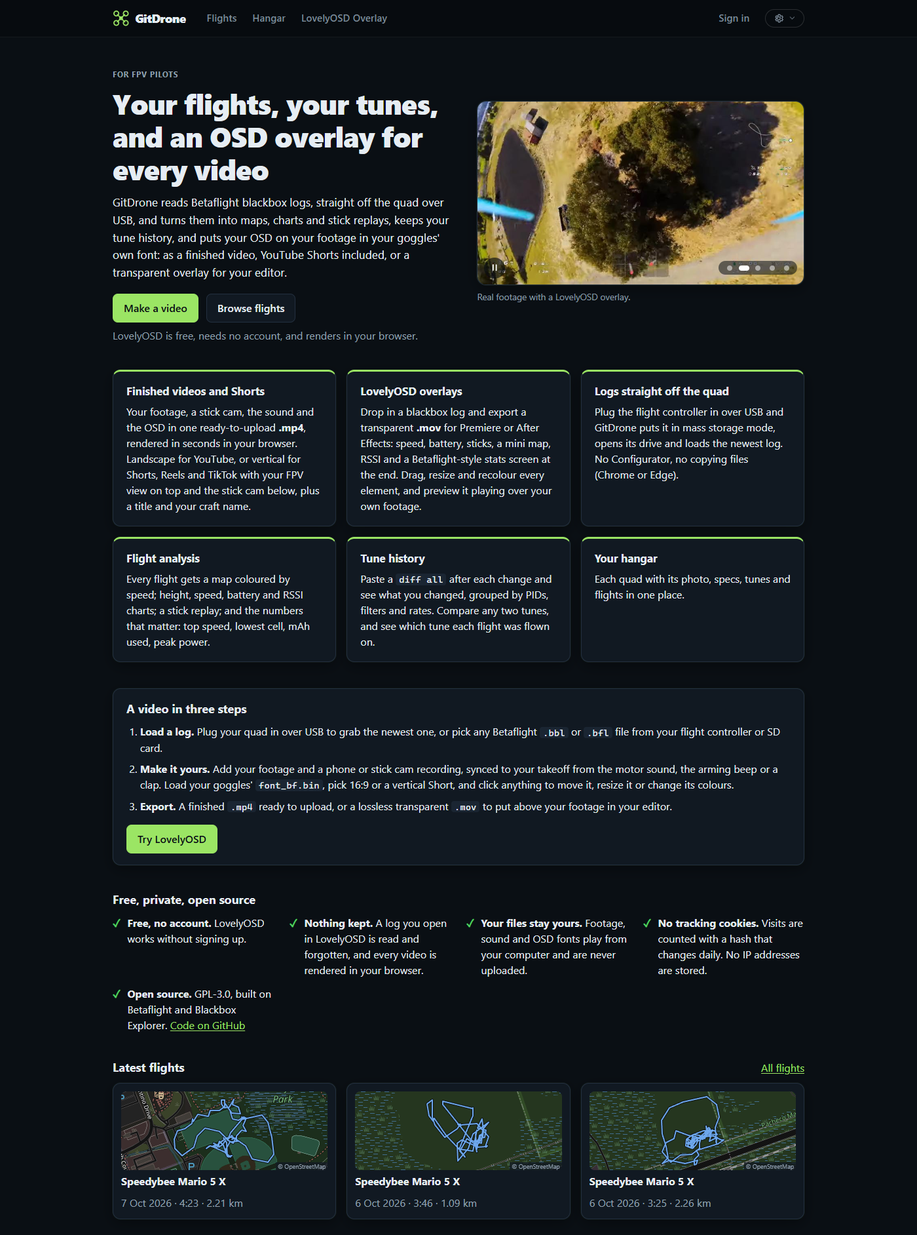
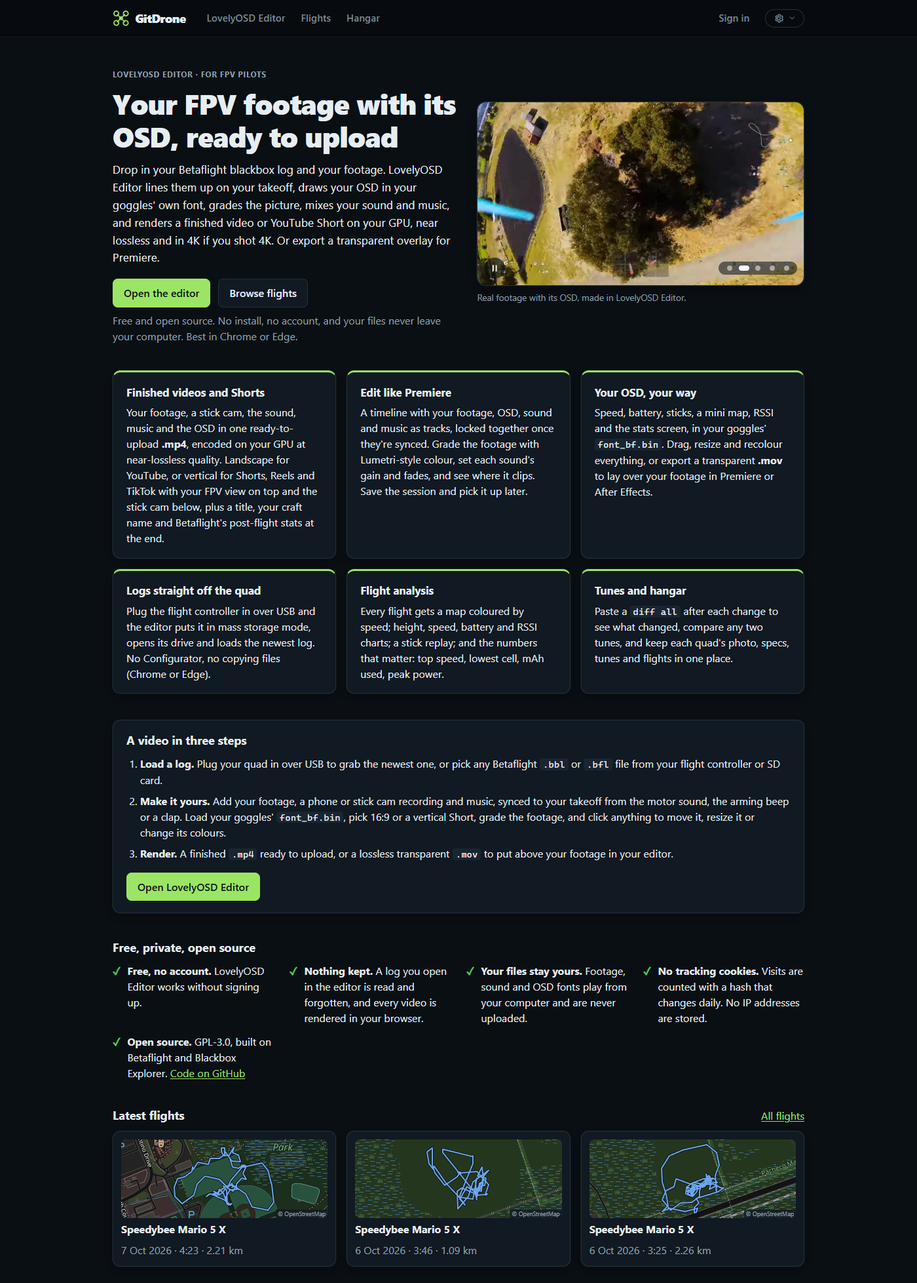
Refocusing the project on LovelyOSD.

diff --git a/drone-logger/src/app/home/home.component.ts b/drone-logger/src/app/home/home.component.ts
@@ -5,7 +5,7 @@ import { FlightService } from '../flights/flight.service';
 import { Flight, flightDate, formatDistance, formatDuration } from '../flights/flight.models';
 import { FlightThumbComponent } from '../flights/flight-thumb.component';
 
-/** Welcome page: what GitDrone does, the way into LovelyOSD, and the latest flights. */
+/** Welcome page: LovelyOSD Editor first (what most visitors come for), then the rest of GitDrone and the latest flights. */
 @Component({
   selector: 'app-home',
   imports: [DatePipe, NgOptimizedImage, RouterLink, FlightThumbComponent],
@@ -13,18 +13,18 @@ import { FlightThumbComponent } from '../flights/flight-thumb.component';
     <div class="page home">
       <section class="hero" aria-labelledby="hero-heading">
         <div class="hero-text">
-          <p class="eyebrow">For FPV pilots</p>
-          <h1 id="hero-heading">Your flights, your tunes, and an OSD overlay for every video</h1>
+          <p class="eyebrow">LovelyOSD Editor · for FPV pilots</p>
+          <h1 id="hero-heading">Your FPV footage with its OSD, ready to upload</h1>
           <p class="lede">
-            GitDrone reads Betaflight blackbox logs, straight off the quad over USB, and turns them into maps, charts and stick
-            replays, keeps your tune history, and puts your OSD on your footage in your goggles' own font: as a finished video,
-            YouTube Shorts included, or a transparent overlay for your editor.
+            Drop in your Betaflight blackbox log and your footage. LovelyOSD Editor lines them up on your takeoff, draws your OSD
+            in your goggles' own font, grades the picture, mixes your sound and music, and renders a finished video or YouTube
+            Short on your GPU, near lossless and in 4K if you shot 4K. Or export a transparent overlay for Premiere.
           </p>
           <div class="cta">
-            <a class="btn btn-primary" routerLink="/osd">Make a video</a>
+            <a class="btn btn-primary" routerLink="/osd">Open the editor</a>
             <a class="btn" routerLink="/flights">Browse flights</a>
           </div>
-          <p class="hint">LovelyOSD is free, needs no account, and renders in your browser.</p>
+          <p class="hint">Free and open source. No install, no account, and your files never leave your computer. Best in Chrome or Edge.</p>
         </div>
 
         <figure class="reel">
@@ -53,34 +53,40 @@ import { FlightThumbComponent } from '../flights/flight-thumb.component';
             </div>
           </div>
           <figcaption class="hint">
-            Real footage with a LovelyOSD overlay.
+            Real footage with its OSD, made in LovelyOSD Editor.
           </figcaption>
         </figure>
       </section>
 
       <section aria-labelledby="features-heading">
-        <h2 id="features-heading" class="sr-only">What you can do</h2>
+        <h2 id="features-heading" class="sr-only">What LovelyOSD Editor does</h2>
         <ul class="features">
           <li class="panel">
             <h3><a routerLink="/osd">Finished videos and Shorts</a></h3>
             <p>
-              Your footage, a stick cam, the sound and the OSD in one ready-to-upload <strong>.mp4</strong>, rendered in seconds in
-              your browser. Landscape for YouTube, or vertical for Shorts, Reels and TikTok with your FPV view on top and the
-              stick cam below, plus a title and your craft name.
+              Your footage, a stick cam, the sound, music and the OSD in one ready-to-upload <strong>.mp4</strong>, encoded on your GPU
+              at near-lossless quality. Landscape for YouTube, or vertical for Shorts, Reels and TikTok with your FPV view on top and
+              the stick cam below, plus a title, your craft name and Betaflight's post-flight stats at the end.
             </p>
           </li>
           <li class="panel">
-            <h3><a routerLink="/osd">LovelyOSD overlays</a></h3>
+            <h3><a routerLink="/osd">Edit like Premiere</a></h3>
             <p>
-              Drop in a blackbox log and export a transparent <strong>.mov</strong> for Premiere or After Effects: speed, battery,
-              sticks, a mini map, RSSI and a Betaflight-style stats screen at the end. Drag, resize and recolour every element,
-              and preview it playing over your own footage.
+              A timeline with your footage, OSD, sound and music as tracks, locked together once they're synced. Grade the footage
+              with Lumetri-style colour, set each sound's gain and fades, and see where it clips. Save the session and pick it up later.
+            </p>
+          </li>
+          <li class="panel">
+            <h3><a routerLink="/osd">Your OSD, your way</a></h3>
+            <p>
+              Speed, battery, sticks, a mini map, RSSI and the stats screen, in your goggles' <code>font_bf.bin</code>. Drag, resize and
+              recolour everything, or export a transparent <strong>.mov</strong> to lay over your footage in Premiere or After Effects.
             </p>
           </li>
           <li class="panel">
             <h3><a routerLink="/osd">Logs straight off the quad</a></h3>
             <p>
-              Plug the flight controller in over USB and GitDrone puts it in mass storage mode, opens its drive and loads the
+              Plug the flight controller in over USB and the editor puts it in mass storage mode, opens its drive and loads the
               newest log. No Configurator, no copying files (Chrome or Edge).
             </p>
           </li>
@@ -92,15 +98,11 @@ import { FlightThumbComponent } from '../flights/flight-thumb.component';
             </p>
           </li>
           <li class="panel">
-            <h3><a routerLink="/hangar">Tune history</a></h3>
+            <h3><a routerLink="/hangar">Tunes and hangar</a></h3>
             <p>
-              Paste a <code>diff all</code> after each change and see what you changed, grouped by PIDs, filters and rates. Compare
-              any two tunes, and see which tune each flight was flown on.
+              Paste a <code>diff all</code> after each change to see what changed, compare any two tunes, and keep each quad's photo,
+              specs, tunes and flights in one place.
             </p>
-          </li>
-          <li class="panel">
-            <h3><a routerLink="/hangar">Your hangar</a></h3>
-            <p>Each quad with its photo, specs, tunes and flights in one place.</p>
           </li>
         </ul>
       </section>
@@ -110,20 +112,20 @@ import { FlightThumbComponent } from '../flights/flight-thumb.component';
         <ol>
           <li><strong>Load a log.</strong> Plug your quad in over USB to grab the newest one, or pick any Betaflight <code>.bbl</code>
             or <code>.bfl</code> file from your flight controller or SD card.</li>
-          <li><strong>Make it yours.</strong> Add your footage and a phone or stick cam recording, synced to your takeoff from the motor
-            sound, the arming beep or a clap. Load your goggles' <code>font_bf.bin</code>, pick 16:9 or a vertical Short, and click
-            anything to move it, resize it or change its colours.</li>
-          <li><strong>Export.</strong> A finished <code>.mp4</code> ready to upload, or a lossless transparent <code>.mov</code> to put
+          <li><strong>Make it yours.</strong> Add your footage, a phone or stick cam recording and music, synced to your takeoff from
+            the motor sound, the arming beep or a clap. Load your goggles' <code>font_bf.bin</code>, pick 16:9 or a vertical Short,
+            grade the footage, and click anything to move it, resize it or change its colours.</li>
+          <li><strong>Render.</strong> A finished <code>.mp4</code> ready to upload, or a lossless transparent <code>.mov</code> to put
             above your footage in your editor.</li>
         </ol>
-        <a class="btn btn-primary" routerLink="/osd">Try LovelyOSD</a>
+        <a class="btn btn-primary" routerLink="/osd">Open LovelyOSD Editor</a>
       </section>
 
       <section class="promises" aria-labelledby="promises-heading">
         <h2 id="promises-heading">Free, private, open source</h2>
         <ul>
-          <li><strong>Free, no account.</strong> LovelyOSD works without signing up.</li>
-          <li><strong>Nothing kept.</strong> A log you open in LovelyOSD is read and forgotten, and every video is rendered in your browser.</li>
+          <li><strong>Free, no account.</strong> LovelyOSD Editor works without signing up.</li>
+          <li><strong>Nothing kept.</strong> A log you open in the editor is read and forgotten, and every video is rendered in your browser.</li>
           <li><strong>Your files stay yours.</strong> Footage, sound and OSD fonts play from your computer and are never uploaded.</li>
           <li><strong>No tracking cookies.</strong> Visits are counted with a hash that changes daily. No IP addresses are stored.</li>
           <li>
@@ -214,7 +216,7 @@ export class HomeComponent {
   private flights = inject(FlightService);
   latest = signal<Flight[]>([]);
 
-  /** Frames from a real flight with a LovelyOSD overlay (Speedybee Mario 5 X). */
+  /** Frames from a real flight with its OSD from LovelyOSD Editor (Speedybee Mario 5 X). */
   readonly frames = [
     { src: 'home/osd-hillside.jpg', alt: 'FPV view over a sunny hillside and bay, with the overlay showing a speed of 47, 3.94 V per cell, the mini map and both sticks' },
     { src: 'home/osd-treetop.jpg', alt: 'Looking straight down at a tree from above, with the overlay showing speed, battery, flight time and the mini map' },

diff --git a/drone-logger/src/index.html b/drone-logger/src/index.html
@@ -2,7 +2,19 @@
 <html lang="en">
 <head>
   <meta charset="utf-8">
-  <title>GitDrone</title>
+  <title>LovelyOSD Editor: your FPV footage with its OSD, in your browser</title>
+  <meta name="description" content="Free, no install, no account. Load your Betaflight blackbox log and your footage, and get a finished 4K video or YouTube Short with your OSD on it, synced and graded, rendered on your GPU in your browser. Or export a transparent OSD overlay for Premiere.">
+  <!-- Link previews (Discord, Reddit, iMessage, X): read straight from this file, so they describe the editor, the page most links go to. Absolute URLs, as the previews need. -->
+  <meta property="og:type" content="website">
+  <meta property="og:site_name" content="LovelyOSD Editor by GitDrone">
+  <meta property="og:title" content="LovelyOSD Editor: your FPV footage with its OSD">
+  <meta property="og:description" content="Free, no install, no account. Load your Betaflight blackbox log and your footage, and get a finished 4K video or YouTube Short with your OSD on it, synced and graded, rendered on your GPU in your browser. Or export a transparent OSD overlay for Premiere.">
+  <meta property="og:url" content="https://gitdrone-bxa9ejf9gbhva9ek.westus3-01.azurewebsites.net/osd">
+  <meta property="og:image" content="https://gitdrone-bxa9ejf9gbhva9ek.westus3-01.azurewebsites.net/og-image.png">
+  <meta property="og:image:width" content="1200">
+  <meta property="og:image:height" content="630">
+  <meta property="og:image:alt" content="LovelyOSD Editor: real FPV footage with its OSD, made from a Betaflight blackbox log">
+  <meta name="twitter:card" content="summary_large_image">
   <base href="/">
   <meta name="viewport" content="width=device-width, initial-scale=1">
   <meta name="color-scheme" content="light dark">

diff --git a/drone-logger/src/app/osd/lovely-osd.component.ts b/drone-logger/src/app/osd/lovely-osd.component.ts
@@ -26,7 +26,7 @@ interface Opening {
 }
 
 /**
- * LovelyOSD: read a blackbox log for its stats and a video overlay without saving anything to the server. The server
+ * LovelyOSD Editor: a blackbox log's OSD on your footage, as a finished video or an overlay, without saving anything to the server. The server
  * decodes the file in memory and forgets it; the results live on this page, and a saved session (this browser only)
  * brings the whole setup back.
  */
@@ -35,11 +35,11 @@ interface Opening {
   imports: [DatePipe, FormsModule, FlightViewComponent, OverlayExportComponent, BlackboxTipsComponent, FcUsbComponent, KeepFileDirective, IconComponent],
   template: `
     <div class="page">
-      <h1>LovelyOSD Overlay</h1>
+      <h1>LovelyOSD Editor</h1>
       <p class="hint">
-        Load a Betaflight blackbox log (<code>.bbl</code> / <code>.bfl</code>) to see its stats and export a transparent OSD
-        video for your footage. The log isn't added to the hangar, and nothing is uploaded for keeps. Save a session to come
-        back to a video later; it's kept in this browser only.
+        Load a Betaflight blackbox log (<code>.bbl</code> / <code>.bfl</code>) and your footage, and make a finished video with
+        your OSD on it, or a transparent OSD overlay for your own editor. It all runs in your browser: no install, no account,
+        and your files aren't uploaded. Save a session to come back to a video later; it's kept in this browser only.
       </p>
 
         <div class="panel pick">

diff --git a/drone-logger/src/app/app.routes.ts b/drone-logger/src/app/app.routes.ts
@@ -11,7 +11,7 @@ import { FlightFeedComponent } from './flights/flight-feed.component';
 import { HomeComponent } from './home/home.component';
 
 export const routes: Routes = [
-  { path: '', pathMatch: 'full', component: HomeComponent, title: 'GitDrone' },
+  { path: '', pathMatch: 'full', component: HomeComponent, title: 'LovelyOSD Editor: your FPV footage with its OSD, in your browser' },
   { path: 'flights', pathMatch: 'full', component: FlightFeedComponent, title: 'Flights' },
   { path: 'hangar', component: AircraftListComponent, title: 'Hangar' },
   { path: 'hangar/new', canActivate: [requireSignIn], component: AircraftFormComponent, title: 'Add aircraft' },
@@ -25,7 +25,7 @@ export const routes: Routes = [
   { path: 'flights/:id', loadComponent: () => import('./flights/flight-detail.component').then(m => m.FlightDetailComponent), title: 'Flight' },
   { path: 'tunes/compare', component: TuneCompareComponent, title: 'Compare tunes' },
   { path: 'stats', canActivate: [requireSignIn], loadComponent: () => import('./stats/stats.component').then(m => m.StatsComponent), title: 'Visitors' },
-  { path: 'osd', loadComponent: () => import('./osd/lovely-osd.component').then(m => m.LovelyOsdComponent), title: 'LovelyOSD Overlay' },
+  { path: 'osd', loadComponent: () => import('./osd/lovely-osd.component').then(m => m.LovelyOsdComponent), title: 'LovelyOSD Editor' },
 
   // Old /aircraft addresses, kept so bookmarks still work.
   { path: 'aircraft', pathMatch: 'full', redirectTo: 'hangar' },

diff --git a/drone-logger/src/app/stats/stats.component.ts b/drone-logger/src/app/stats/stats.component.ts
@@ -4,7 +4,7 @@ import { VisitService, VisitStats } from './visit.service';
 
 /** Friendly names for the paths the API folds visits onto. */
 const PAGE_NAMES: Record<string, string> = {
-  '/': 'Home', '/osd': 'LovelyOSD Overlay', '/flights': 'Flights feed', '/flights/:id': 'Flight page',
+  '/': 'Home', '/osd': 'LovelyOSD Editor', '/flights': 'Flights feed', '/flights/:id': 'Flight page',
   '/flights/:id/overlay': 'Flight overlay export', '/hangar': 'Hangar', '/hangar/:id': 'Aircraft page',
   '/hangar/new': 'Add aircraft', '/hangar/:id/edit': 'Edit aircraft', '/hangar/:id/tunes/import': 'Import tune',
   '/hangar/:id/tunes/bulk': 'Bulk import tunes', '/hangar/:id/flights/upload': 'Upload log', '/tunes/compare': 'Compare tunes',

diff --git a/drone-logger/src/app/app.html b/drone-logger/src/app/app.html
@@ -12,9 +12,9 @@
       </svg>
       <span>GitDrone</span>
     </a>
+    <a class="link" routerLink="/osd" routerLinkActive="active" ariaCurrentWhenActive="page">LovelyOSD<span class="long"> Editor</span></a>
     <a class="link" routerLink="/flights" routerLinkActive="active" ariaCurrentWhenActive="page">Flights</a>
     <a class="link" routerLink="/hangar" routerLinkActive="active" ariaCurrentWhenActive="page">Hangar</a>
-    <a class="link" routerLink="/osd" routerLinkActive="active" ariaCurrentWhenActive="page">LovelyOSD<span class="long"> Overlay</span></a>
     <span class="account">
       @if (auth.signedIn()) {
         <div class="menu">

diff --git a/drone-logger/src/app/app.css b/drone-logger/src/app/app.css
@@ -42,7 +42,7 @@
   .nav { gap: .5rem .8rem; padding: .45rem .75rem; height: auto; min-height: 3.5rem; flex-wrap: wrap; }
   .account { gap: .5rem; }
   .theme { padding: .3rem .55rem; }
-  /* "LovelyOSD Overlay" is too long for a phone; "LovelyOSD" is still the start of the link's name. */
+  /* "LovelyOSD Editor" is too long for a phone; "LovelyOSD" is still the start of the link's name. */
   .link .long { display: none; }
   .who { display: none; }
   /* Visually hidden but still the link's name for screen readers. */

diff --git a/README.md b/README.md
@@ -4,11 +4,13 @@
 
 # GitDrone
 
-**Your flights, your tunes, and an OSD overlay for every video.**
+**LovelyOSD Editor: your FPV footage with its OSD, ready to upload.**
 
-GitDrone reads Betaflight blackbox logs (straight off the quad over USB) and turns them into maps, charts and stick
-replays, keeps your tune history, makes a transparent OSD overlay for your FPV footage in your goggles' own font, and
-renders the finished video, YouTube Shorts included, right in your browser.
+Drop in your Betaflight blackbox log (straight off the quad over USB, if you like) and your footage. LovelyOSD Editor
+lines them up on your takeoff, draws your OSD in your goggles' own font, grades the picture, mixes your sound and music,
+and renders a finished video or YouTube Short on your GPU, near lossless, right in your browser. Or it exports a
+transparent OSD overlay for Premiere. GitDrone, around it, keeps your flights as maps, charts and stick replays, and
+your tune history.
 
 [![Deploy to Azure](https://github.com/RobWiersma/GitDrone/actions/workflows/deploy.yml/badge.svg)](https://github.com/RobWiersma/GitDrone/actions/workflows/deploy.yml)
 [![License: GPL v3](https://img.shields.io/badge/license-GPL--3.0-blue.svg)](LICENSE)
@@ -18,15 +20,15 @@ renders the finished video, YouTube Shorts included, right in your browser.
 ![Leaflet](https://img.shields.io/badge/maps-Leaflet%20%2B%20OSM-199900?logo=leaflet&logoColor=white)
 
 **[Open the live site](https://gitdrone-bxa9ejf9gbhva9ek.westus3-01.azurewebsites.net/)** ·
-[Try LovelyOSD](https://gitdrone-bxa9ejf9gbhva9ek.westus3-01.azurewebsites.net/osd) ·
+[Open LovelyOSD Editor](https://gitdrone-bxa9ejf9gbhva9ek.westus3-01.azurewebsites.net/osd) ·
 [Features](#features) ·
 [Getting started](#getting-started) ·
 [Shorts](#vertical-video-shorts-reels-tiktok) ·
 [How it works](#comparing-tunes)
 
-<img src="drone-logger/public/home/osd-hillside.jpg" alt="FPV view over a sunny hillside and bay, with the LovelyOSD overlay showing speed, battery per cell, the mini map and both sticks" width="860">
+<img src="drone-logger/public/home/osd-hillside.jpg" alt="FPV view over a sunny hillside and bay, with its OSD from LovelyOSD Editor showing speed, battery per cell, the mini map and both sticks" width="860">
 
-<sub>Real footage with a LovelyOSD overlay rendered by GitDrone.</sub>
+<sub>Real footage with its OSD, made in LovelyOSD Editor.</sub>
 
 </div>
 
@@ -34,9 +36,10 @@ renders the finished video, YouTube Shorts included, right in your browser.
 
 ## Features
 
-### 🎬 LovelyOSD overlays
+### 🎬 LovelyOSD Editor
 
-Drop in a blackbox log and export a transparent `.mov` for Premiere Pro or After Effects: speed, battery,
+Free, no install, no account, at `/osd`. Drop in a blackbox log and your footage for a finished video (below), or
+export a transparent `.mov` for Premiere Pro or After Effects: speed, battery,
 sticks, a mini map, RSSI and a Betaflight-style stats screen at the end. Drag, resize and recolour every element,
 draw it all in your goggles' `font_bf.bin`, and preview it full screen, playing over your own footage with sound,
 synced to your takeoff automatically from the motor sound, the arming beep or a clap. A Premiere-style timeline shows
@@ -106,7 +109,7 @@ Each quad with its photo, specs, tune timeline (with firmware updates marked) an
 ### 🏠 And a front page to show it off
 
 <p align="center">
-  <img src="docs/screenshots/home.png" alt="The GitDrone home page: headline, a footage carousel with the overlay, six feature cards, a video-in-three-steps section and the latest flights with map thumbnails" width="860">
+  <img src="docs/screenshots/home.png" alt="The home page, leading with LovelyOSD Editor: the headline Your FPV footage with its OSD, ready to upload, an Open the editor button, a carousel of real footage with its OSD, six feature cards (four for the editor, then flight analysis and tunes), a video-in-three-steps section and the latest flights with map thumbnails" width="860">
 </p>
 
 ## Tech stack
@@ -157,7 +160,7 @@ GitDrone/
 │       ├── flights/              Flight pages, map, charts, playback, overlay editor and export, finished-video
 │       │                         render, logs over USB
 │       ├── icon.component.ts     The small outline icons used across the editor
-│       ├── osd/                  LovelyOSD (no-account overlay tool)
+│       ├── osd/                  LovelyOSD Editor (no-account video and overlay tool)
 │       ├── tunes/                Import, timeline, compare
 │       └── home/ · stats/        Front page and visitor stats
 ├── docs/screenshots/             Images for this README
@@ -237,7 +240,7 @@ Upload a Betaflight `.bbl`/`.bfl` file on the aircraft page, or get it straight 
 in over USB (no battery needed), press **Connect FC over USB** and then **Open FC drive**. In Chrome and Edge, GitDrone
 sends the flight controller the same MSP reboot-to-mass-storage command as the Configurator's "Activate Mass Storage
 Device Mode" button (`flights/fc-usb.ts`, Web Serial), then lists the logs on the drive it becomes and picks the newest.
-LovelyOSD has the same buttons. Eject the drive and unplug the quad afterwards to put it back to normal. The API decodes it itself
+LovelyOSD Editor has the same buttons. Eject the drive and unplug the quad afterwards to put it back to normal. The API decodes it itself
 (`Services/BlackboxDecoder.cs`, ported from betaflight/blackbox-log-viewer), creates one flight per
 armed session, and links each to the newest tune saved before that flight (or the tune you pick).
 Craft name and device UID from the log header are not stored. The original file is kept in
@@ -255,7 +258,7 @@ its altitude from either.
 
 ## Video overlay
 
-Each flight page has **Export video overlay** (`/flights/:id/overlay`), and LovelyOSD has the same tool: a
+Each flight page has **Export video overlay** (`/flights/:id/overlay`), and LovelyOSD Editor has the same tool: a
 transparent HUD video to put on a track above your footage in Premiere Pro or After Effects. It shows:
 
 - a **speed panel**: speed, G-force, current and power;
@@ -399,9 +402,9 @@ in the format, resolution and frame rate set under Output (`flights/video-render
   streams straight to disk; if Chrome won't write where you picked, it lands in your Downloads folder instead. A status
   line and progress bar show each step, and Cancel stops it cleanly.
 
-## LovelyOSD Overlay
+## LovelyOSD Editor
 
-The **LovelyOSD Overlay** tab (`/osd`) is the quick route: pick a blackbox log, see the same stats, map, playback
+The **LovelyOSD Editor** tab (`/osd`), first in the nav and what the home page leads with, is the quick route: pick a blackbox log, see the same stats, map, playback
 and charts as a flight page, and export the overlay video, without adding anything to the hangar. The API reads the
 file in memory and forgets it (nothing goes into the database or `App_Data/logs`), and the results only live on the
 page, so leaving it clears them, unless you save the session. A file with several armed sessions gets a session picker.
@@ -431,7 +434,7 @@ App settings on the App Service:
 | `Auth__OwnerIds`             | Your account id (comma-separate several) |
 
 `/home` survives restarts and deploys, so SQLite is fine on a single instance. Turn on App Service
-Authentication (Microsoft provider) with **Allow unauthenticated access**: visitors can browse and use LovelyOSD.
+Authentication (Microsoft provider) with **Allow unauthenticated access**: visitors can browse and use LovelyOSD Editor.
 Only **owners** can add or change anything or see visitor stats: accounts whose id is in `Auth__OwnerIds`. Signing in
 with any other account changes nothing, and with the setting empty nobody can make changes (the API enforces all of
 this). Your id is the **Object ID** under Microsoft Entra ID → Users → your user.
@@ -464,7 +467,7 @@ GitDrone stands on the open-source FPV world:
   `diff all` format and OSD symbol codes (`osd_symbols.h`) this reads.
 - **[Blackbox Explorer](https://github.com/betaflight/blackbox-log-viewer)** (GPL-3.0): `Services/BlackboxDecoder.cs`
   is a port of its log decoder, which is why GitDrone is GPL-3.0 as well.
-- **[WTFOS msp-osd](https://github.com/fpv-wtf/msp-osd)**: the DJI goggles font format LovelyOSD reads. Fonts are
+- **[WTFOS msp-osd](https://github.com/fpv-wtf/msp-osd)**: the DJI goggles font format LovelyOSD Editor reads. Fonts are
   loaded from your own computer and never uploaded or bundled here.
 - **[Leaflet](https://leafletjs.com/)** (BSD-2-Clause) and **[OpenStreetMap](https://www.openstreetmap.org/copyright)**
   contributors (ODbL) for the flight maps.

diff --git a/drone-logger/README.md b/drone-logger/README.md
@@ -1,6 +1,6 @@
 # GitDrone frontend (`drone-logger`)
 
-The Angular 22 app behind GitDrone: the hangar, flight pages, tune history and the LovelyOSD overlay editor. The
+The Angular 22 app behind GitDrone: the hangar, flight pages, tune history and LovelyOSD Editor (the video and overlay editor). The
 [main README](../README.md) covers what GitDrone does; this one is about working on the frontend.
 
 ## Running it
@@ -42,7 +42,7 @@ src/app/
 │   ├── range-window.component      The two-handle slider for the render range, on the timeline
 │   ├── clap                        Sound analysis: arming, launch, claps, motor-sound sync and sample peaks
 │   └── glyph-font, stick-math      Betaflight OSD fonts and stick modes
-├── osd/           LovelyOSD: the no-account overlay tool (/osd)
+├── osd/           LovelyOSD Editor: the no-account video and overlay tool (/osd)
 ├── tunes/         Import, timeline, compare
 ├── home/ · stats/ Front page and visitor stats
 └── icon.component.ts   The small outline icons used across the editor (hover text lives on the buttons)
@@ -60,5 +60,5 @@ src/app/
 | [Web Audio](https://developer.mozilla.org/docs/Web/API/Web_Audio_API) | Gain past 100%, mutes and fades in the preview; mixing the finished video's sound | Everywhere |
 | [Web Serial](https://developer.mozilla.org/docs/Web/API/Web_Serial_API) | Rebooting the flight controller into mass storage | Chrome and Edge |
 
-Nothing a visitor loads is uploaded except a log they decode (read in memory by the API and forgotten in LovelyOSD).
+Nothing a visitor loads is uploaded except a log they decode (read in memory by the API and forgotten in LovelyOSD Editor).
 Footage, sound tracks, music and fonts stay on their computer.
